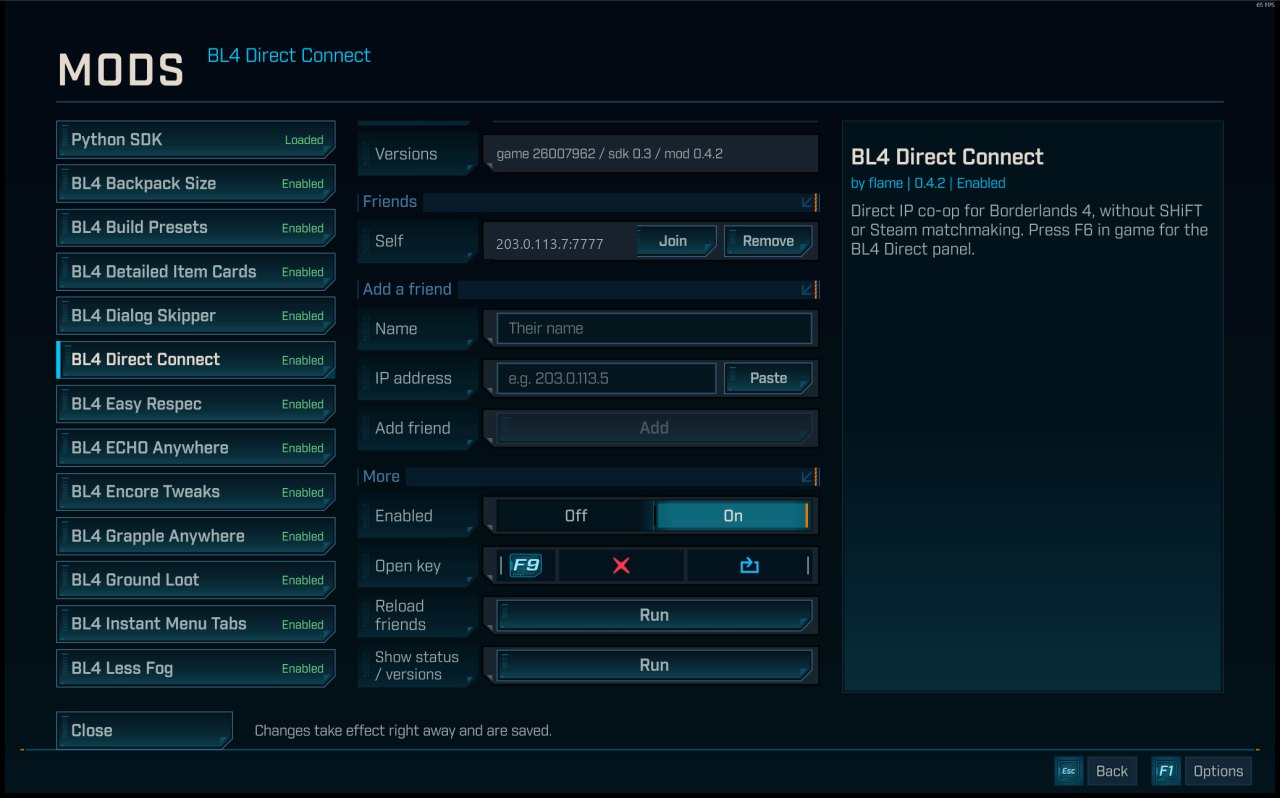
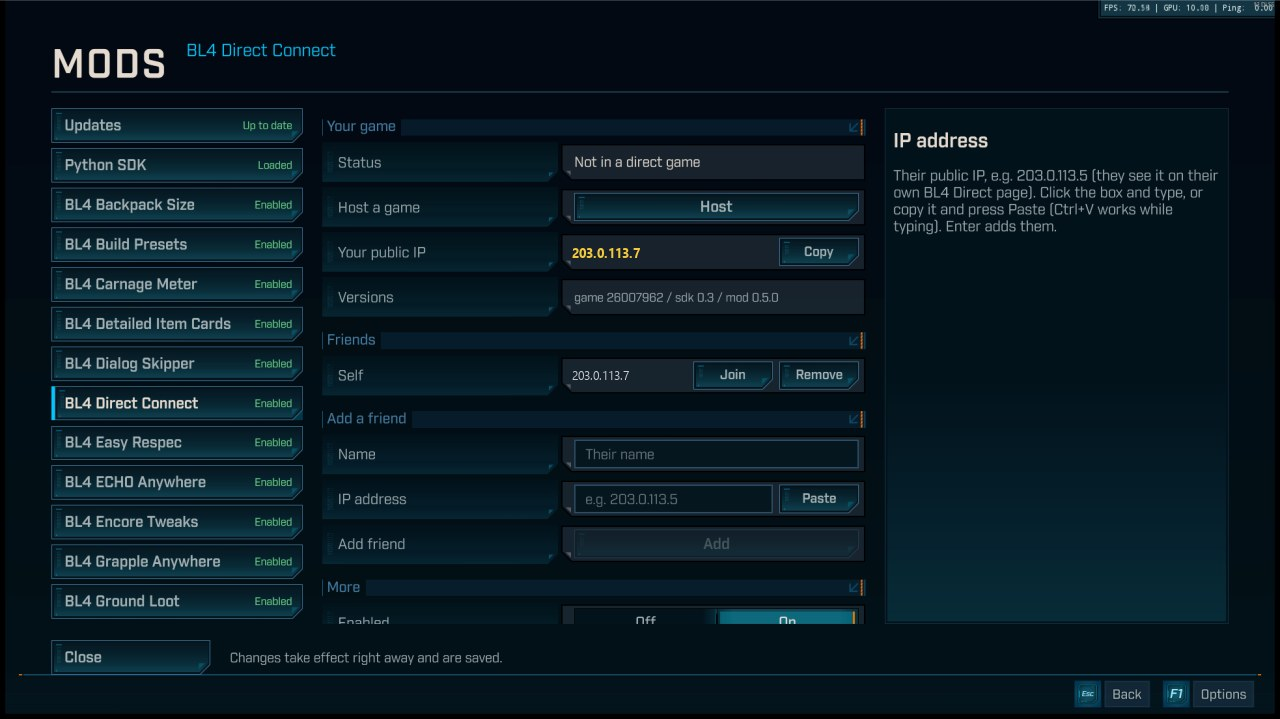
README: new screenshots, Carnage Meter, Tidy Pause Menu; catalog and tooling updates

diff --git a/installer/ui/app.js b/installer/ui/app.js
@@ -877,7 +877,7 @@ function mockApi() {
     ["bl4_minimap", "Minimap", "A minimap with the ECHO map's art, fog, icons and route (N).", "mods", 0, 0, "N"],
     ["bl4_third_person", "Third Person", "H: over-the-shoulder camera with aiming.", "mods", 0, 0, "H"],
     ["bl4_vehicles_anywhere", "Vehicles Anywhere", "Summon and drive where vehicles aren't allowed.", "mods", 0, 0, ""],
-    ["bl4_backpack_size", "Backpack Size", "Set the backpack item limit.", "mods", 0, 0, ""],
+    ["bl4_backpack_size", "Backpack Size", "Set the backpack, bank and Lost Loot limits.", "mods", 0, 0, ""],
     ["bl4_shoot_open", "Shoot to Open", "Shoot a container or chest to open it.", "mods", 0, 0, ""],
     ["bl4_less_fog", "Less Fog", "Thin out the haze over the world.", "mods", 0, 0, ""],
     ["bl4_perf", "Performance Fixes", "Fewer hitches: no DLSS reload after menus, cheaper mod hooks.", "mods", 0, 0, ""],

diff --git a/installer/catalog.py b/installer/catalog.py
@@ -55,15 +55,17 @@ MODS: tuple[ModInfo, ...] = (
         paks=(_pak(4244),), ui_dirs=("bl4respec",),
     ),
     ModInfo("bl4_builds", "Build Presets", "Five build slots in the inventory: gear, skills and specs.", ui_dirs=("bl4builds",)),
-    ModInfo("bl4_reroll", "Reroll", "Reroll class mod and enhancement stats for Eridium.", ui_dirs=("bl4reroll",)),
+    ModInfo("bl4_reroll", "Reroll", "Reroll class mod and enhancement stats, or whole legendaries and pearls, for Eridium.", ui_dirs=("bl4reroll",)),
     ModInfo("bl4_weapondex", "Kairosdex", "A dex of the bosses you've beaten and their legendaries (F8).", paks=(_pak(4248),), ui_dirs=("bl4weapondex",), assets=("bl4weapondex/bosses", "bl4weapondex/items")),
+    ModInfo("bl4_damage_meter", "Carnage Meter", "Every player's damage and top damage sources (F9), and a pop-up when a boss dies.", paks=(_pak(4249),), ui_dirs=("bl4carnage",)),
     ModInfo("bl4_uvh_teleport", "UVH Boss Teleport", "Hover a UVH boss challenge and press T to go there.", ui_dirs=("bl4uvhtp",)),
     ModInfo("bl4_minimap", "Minimap", "A minimap with the ECHO map's art, fog, icons and route (N)."),
     ModInfo("bl4_third_person", "Third Person", "H: over-the-shoulder camera with aiming."),
     ModInfo("bl4_vehicles_anywhere", "Vehicles Anywhere", "Summon and drive where vehicles aren't allowed."),
-    ModInfo("bl4_backpack_size", "Backpack Size", "Set the backpack item limit."),
+    ModInfo("bl4_backpack_size", "Backpack Size", "Set the backpack, bank and Lost Loot limits."),
     ModInfo("bl4_shoot_open", "Shoot to Open", "Shoot a container or chest to open it."),
     ModInfo("bl4_less_fog", "Less Fog", "Thin out the haze over the world."),
+    ModInfo("bl4_tidy_pause", "Tidy Pause Menu", "Move the pause menu's News panel to the right, or hide it.", ui_dirs=("bl4tidypause",)),
     ModInfo("bl4_perf", "Performance Fixes", "Fewer hitches: no DLSS reload after menus, cheaper mod hooks."),
     ModInfo("bl4_dialog_skipper", "Dialog Skipper", "Skip voice lines by key or automatically.", source="ported"),
     ModInfo("bl4_grapple_anywhere", "Grapple Anywhere", "Grapple to any ledge you aim at.", source="ported"),

diff --git a/tools/desktop_agent.py b/tools/desktop_agent.py
@@ -95,6 +95,8 @@ def handle(req: dict) -> dict:
                     extra.append("-Right")
                 elif req.get("button") == "none":
                     extra.append("-Move")
+                if req.get("wheel"):
+                    extra += ["-Wheel", str(int(req["wheel"]))]
             elif "text" in req:
                 extra = ["-Text", str(req["text"])]
             else:
@@ -180,6 +182,8 @@ def main() -> None:
             print(request({"action": "input", "pid": pid, "x": x, "y": y, "button": "right"}))
         case ["move", pid, x, y]:
             print(request({"action": "input", "pid": pid, "x": x, "y": y, "button": "none"}))
+        case ["wheel", pid, x, y, delta]:
+            print(request({"action": "input", "pid": pid, "x": x, "y": y, "wheel": delta}))
         case ["type", pid, text]:
             print(request({"action": "input", "pid": pid, "text": text}))
         case ["key", pid, key]:

diff --git a/README.md b/README.md
@@ -26,7 +26,7 @@
 ---
 
 <p align="center">
-  <img src="docs/images/showcase.jpg" alt="Item cards with class mod skills, the Kairosdex, the Minimap, Reroll, Build Presets and the setup app" width="100%">
+  <img src="docs/images/showcase.jpg" alt="A class mod item card with its skills, the Kairosdex, the Carnage Report, the Minimap, Build Presets and the setup app" width="100%">
 </p>
 
 ## Why BL4 Fix?
@@ -37,8 +37,9 @@
   tick, sets up the firewall, and prepares every page the mods change before your first launch.
 - **Settings inside the game.** Every mod's options and keys are on one **MODS** screen (F7, the
   pause menu or the title screen), built from the game's own menus.
-- **Made to cost nothing.** Every mod is measured to show no frame-time difference with it on or
-  off and no hitches. There's even a mod that removes some of the game's own hitches.
+- **Built to cost nothing.** Every mod is held to a strict frame-time budget (no per-frame work
+  when it isn't needed, nothing heavy on the game thread). There's even a mod that removes some
+  of the game's own hitches.
 - **Safe to remove.** Every mod puts back what it changed when you switch it off. The installer
   never writes your save files, and its mods step aside on their own after a game patch until
   they've been updated.
@@ -46,6 +47,8 @@
   when the game closes.
 
 ## Install
+
+You need Borderlands 4 on Windows (Steam or Epic). The setup app brings everything else.
 
 1. **[Download `BL4FixSetup.exe`](https://github.com/flameaway/bl4-fix/releases/latest/download/BL4FixSetup.exe)**
    and close Borderlands 4.
@@ -94,14 +97,28 @@ Every key can be changed on the **MODS** screen. Keys only act while the game wi
 | **F6** | BL4 Direct Connect | Open the co-op page: host, join, add friends |
 | **F7** | Mod Menu | Open the MODS screen (works in game, in menus and on the title screen) |
 | **F8** | Kairosdex | Open the boss and legendary dex |
+| **F9** | Carnage Meter | Open the Carnage Report: everyone's damage this fight and this session |
 | **J / K** | Detailed Item Cards | On a legendary's card: set a waypoint to / travel to its boss's Big Encore machine |
-| **T / G** | Reroll | On a class mod or enhancement: reroll all its stats / replace one |
+| **T / G** | Reroll | On a class mod or enhancement: reroll all its stats / replace one. On a legendary or pearl: reroll the whole item |
 | **T** | UVH Boss Teleport | On a UVH boss challenge: go to its Big Encore machine |
 | **H** | Third Person | Switch between first and third person (**K** swaps the shoulder) |
 | **N** | Minimap | Show or hide the minimap |
 | **Right click** | Easy Respec | On a skill in the Skills menu: take a point back |
 
 ## The mods
+
+[Direct Connect](#bl4-direct-connect-co-op-by-ip) •
+[Mod Menu](#mod-menu) •
+[Item Cards](#detailed-item-cards) •
+[Kairosdex](#kairosdex) •
+[Carnage Meter](#carnage-meter) •
+[Minimap](#minimap) •
+[Reroll](#reroll) •
+[Build Presets](#build-presets) •
+[Easy Respec](#easy-respec) •
+[Third Person](#third-person) •
+[Less Fog](#less-fog) •
+[and the rest](#and-the-rest)
 
 ### BL4 Direct Connect: co-op by IP
 
@@ -152,12 +169,18 @@ player in a co-op game.
 ### Mod Menu
 
 Settings for every mod in one screen that looks like part of the game. Open it with **F7**, or
-**MODS** in the pause menu and on the title screen (under Continue). Changes take effect at once
-and are saved. Its **Updates** page lists new versions of your mods (see [Updates](#updates)).
+**MODS** in the pause menu and on the title screen (under Continue). Toggles, sliders and key
+bindings use the game's own Options controls, the panel on the right explains whatever you
+hover, and changes take effect at once and are saved. Its **Updates** page lists new versions
+of your mods (see [Updates](#updates)).
 
-| The pause menu gets **Mods** and **Kairosdex** | The MODS screen's Updates page |
+<p align="center">
+  <img src="docs/images/mod-menu.jpg" alt="The MODS screen on the Minimap's page: on/off toggles, sliders for size, range and icon size, and the show/hide key" width="88%">
+</p>
+
+| The pause menu gets **Mods**, **Kairosdex** and **Carnage Report** | The MODS screen's Updates page |
 |:---:|:---:|
-| <img src="docs/images/pause-menu.jpg" alt="Pause menu with Mods and Kairosdex entries"> | <img src="docs/images/mod-menu-updates.jpg" alt="MODS screen, Updates page"> |
+| <img src="docs/images/pause-menu.jpg" alt="Pause menu with Mods, Kairosdex and Carnage Report entries, and the News panel moved to the bottom right by Tidy Pause Menu"> | <img src="docs/images/mod-menu-updates.jpg" alt="MODS screen, Updates page"> |
 
 ### Detailed Item Cards
 
@@ -186,13 +209,24 @@ your first kill of each boss and each new legendary.
 
 | Bosses and their drop rates | Items, with stats at your level |
 |:---:|:---:|
-| <img src="docs/images/dex-bosses.jpg" alt="Kairosdex boss page: Idolator Sol and its dedicated drops"> | <img src="docs/images/dex-items.jpg" alt="Kairosdex item page: Herald with the boss that drops it"> |
+| <img src="docs/images/dex-bosses.jpg" alt="Kairosdex boss page: Idolator Sol and its dedicated drops"> | <img src="docs/images/dex-items.jpg" alt="Kairosdex item page: Golden God with its stats at your level"> |
 
 <p align="center">
   <img src="docs/images/dex-banners.jpg" alt="HUD banners: NEW LEGENDARY Jetset and BOSS DEFEATED Axemaul" width="80%">
 </p>
 
-<sub>The dex screenshots were taken before the rename, so their title still reads "Weapondex".</sub>
+### Carnage Meter
+
+*New, still in testing: not in the setup app yet.* Who's carrying the squad? **F9** (or **Carnage Report** in the pause
+menu) shows every player's damage: total, DPS, kills, crit share, biggest hit and share of the
+team's damage. It also lists each player's top damage sources by name (that Star Helix, burning,
+grenades, skills) and a damage-mix bar. **This Fight** starts over after a lull of a few seconds,
+**Session** keeps the whole run, and when a boss dies a results panel names the MVP. In co-op the
+host's copy counts everyone's damage, and friends see the same board.
+
+<p align="center">
+  <img src="docs/images/carnage-report.jpg" alt="Carnage Report: four player cards ranked by damage, each with DPS, kills, crits, top damage sources and a damage mix bar" width="88%">
+</p>
 
 ### Minimap
 
@@ -208,7 +242,9 @@ about 0.13 ms a frame.
 
 Don't like a stat on a class mod or enhancement? Hover it and press **T** to reroll all its
 modifiers or **G** to replace one, for Eridium (25 and 50 by default, changeable in its
-settings). In co-op, the host's copy does the reroll for you.
+settings). On a legendary or pearl, **T** rerolls the whole item (100 Eridium by default): a fresh
+roll at its level with the game's own drop odds, so rare parts stay rare. In co-op, the host's copy
+does the reroll for you.
 
 <p align="center">
   <img src="docs/images/reroll.jpg" alt="Reroll: a class mod card with Reroll All / Pick One prompts and a REROLL result note" width="88%">
@@ -227,10 +263,11 @@ load a build, or the next and previous one.
 ### Easy Respec
 
 Right-click a skill in the Skills menu to take a point back out, as long as the tree stays
-valid. No more full respec to fix one misclick.
+valid. No more full respec to fix one misclick. The menu's button bar shows the new
+**Remove Point** hint.
 
 <p align="center">
-  <img src="docs/images/respec.jpg" alt="The Skills menu" width="80%">
+  <img src="docs/images/respec.jpg" alt="The Skills menu with a skill tooltip open and a Remove Point (right mouse) hint in the button bar" width="88%">
 </p>
 
 ### Third Person
@@ -258,9 +295,10 @@ Thins out the haze over the world: lower fog density, pushed further away, adjus
 | **ECHO Anywhere** | Open the ECHO menu when the game normally refuses (falling, mid-air...). |
 | **UVH Boss Teleport** | Hover an Ultimate Vault Hunter boss challenge and press **T** to go to its Big Encore machine. |
 | **Vehicles Anywhere** | Summon and drive your vehicle where the game says vehicles aren't allowed. |
-| **Backpack Size** | Set the backpack's item limit to any number. |
+| **Backpack Size** | Set how many items your backpack, bank and Lost Loot hold. |
 | **Shoot to Open** | Shoot a container or chest to open it. |
 | **Performance Fixes** | Fewer hitches: Python garbage collection without stalls, cheaper mod hooks, and optionally frame generation kept on in menus. |
+| **Tidy Pause Menu** | Moves the pause menu's News panel to the bottom right, under the party list, so it no longer covers Quit Game. Or hide it. |
 
 **Ports of Yeti's mods.** These are our own GPL-3.0 rewrites of [Yeti's BL4 SDK mods](https://github.com/RedxYeti/yeti-bl4-sdk),
 following this repo's rules (no per-frame cost, everything restored on disable, options in the
@@ -282,8 +320,9 @@ table says so.
 
 | Mod | In co-op |
 |---|---|
-| Mod Menu, Skip Intro, Less Fog, Instant Menu Tabs, ECHO Anywhere, Third Person, Minimap, Item Cards (cards), Performance Fixes | Local: works for whoever runs it, host or friend. |
+| Mod Menu, Skip Intro, Less Fog, Instant Menu Tabs, ECHO Anywhere, Third Person, Minimap, Item Cards (cards), Performance Fixes, Tidy Pause Menu | Local: works for whoever runs it, host or friend. |
 | Kairosdex | Local; friends' kills are tracked through the boss health bar. |
+| Carnage Meter | The host's copy counts every player's damage; a friend's screen shows the host's board (both need it). |
 | Easy Respec | Works for a friend on its own; the host needs nothing. |
 | Backpack Size, Encore Tweaks | The host's copy covers every player. |
 | Dialog Skipper | The host skips for everyone; a friend skips on their own screen. Game speed: host only. |
